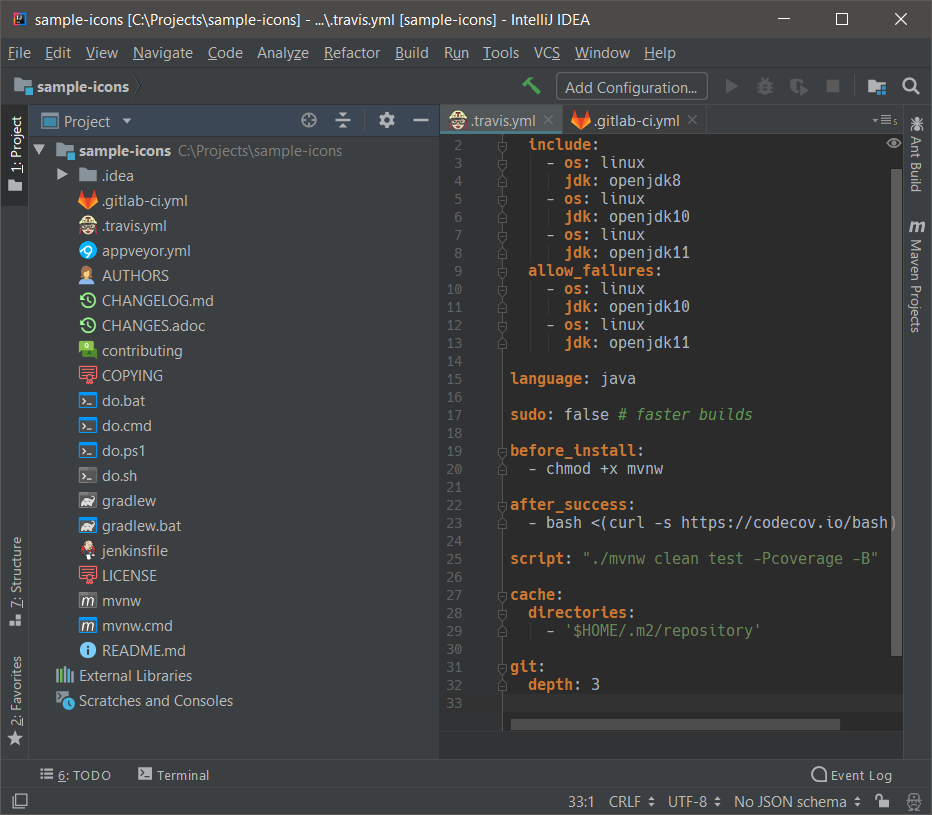
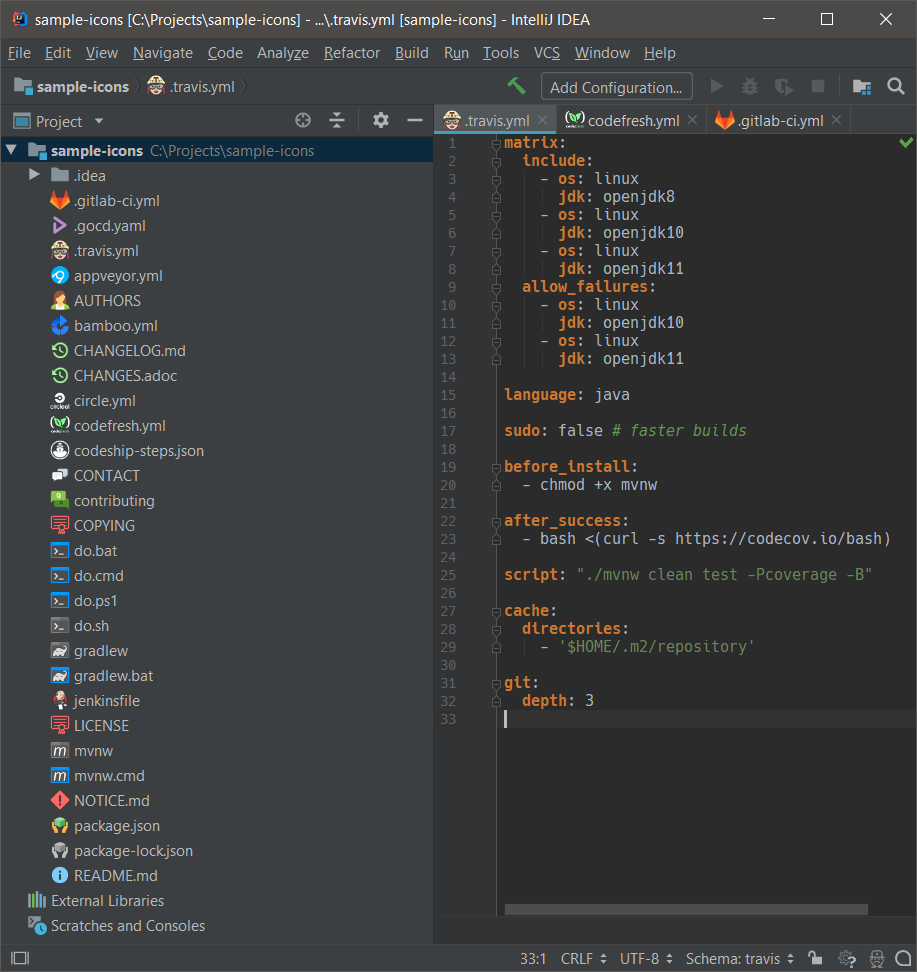
0.5 release, add bamboo.yml, circle.yml...

diff --git a/src/lermitage/intellij/extra/icons/ExtraIconProvider.java b/src/lermitage/intellij/extra/icons/ExtraIconProvider.java
@@ -7,99 +7,57 @@ import com.intellij.psi.PsiFile;
 import org.jetbrains.annotations.NotNull;
 
 import javax.swing.Icon;
+import java.util.Arrays;
+import java.util.List;
 
 public class ExtraIconProvider extends IconProvider {
     
-    private static final String TRAVIS_ICON = "/icons/travis.png";
-    private static final String APPVEYOR_ICON = "/icons/appveyor.png";
-    private static final String JENKINS_ICON = "/icons/jenkins.png";
-    private static final String GITLAB_ICON = "/icons/gitlab.png";
-    private static final String BASH_ICON = "/icons/bash.png";
-    private static final String BASH_GRADLEW_ICON = "/icons/bash-gradlew.png";
-    private static final String BASH_MVNW_ICON = "/icons/bash-mvnw.png";
-    private static final String CMD_ICON = "/icons/cmd.png";
-    private static final String CMD_GRADLEW_ICON = "/icons/cmd-gradlew.png";
-    private static final String CMD_MVNW_ICON = "/icons/cmd-mvnw.png";
-    private static final String README_ICON = "/icons/readme.png";
-    private static final String CHANGELOG_ICON = "/icons/changelog.png";
-    private static final String LICENSE_ICON = "/icons/license.png";
-    private static final String CONTRIBUTING_ICON = "/icons/contributing.png";
-    private static final String AUTHORS_ICON = "/icons/authors.png";
+    private final List<Model> models = Arrays.asList(
+            new Model("/icons/appveyor.png").willEqual("appveyor.yml"),
+            new Model("/icons/authors.png").willEqualAndMayEndWith("author", ".md", ".txt", ".adoc"),
+            new Model("/icons/authors.png").willEqualAndMayEndWith("authors", ".md", ".txt", ".adoc"),
+            new Model("/icons/bash-gradlew.png").willEqual("gradlew"),
+            new Model("/icons/bamboo.png").willEqual("bamboo.yml"),
+            new Model("/icons/bash-mvnw.png").willEqual("mvnw"),
+            new Model("/icons/changelog.png").willEqualAndMayEndWith("changelog", ".md", ".txt", ".adoc"),
+            new Model("/icons/changelog.png").willEqualAndMayEndWith("changes", ".md", ".txt", ".adoc"),
+            new Model("/icons/circleci.png").willEqual("circle.yml"),
+            new Model("/icons/codefresh.png").willEqual("codefresh.yml"),
+            new Model("/icons/codeship.png").willEqual("codeship-steps.yml"),
+            new Model("/icons/codeship.png").willEqualAndMayEndWith("codeship-steps", "json", "yml"),
+            new Model("/icons/cmd-gradlew.png").willEqual("gradlew.bat"),
+            new Model("/icons/cmd-gradlew.png").willEqual("gradlew.cmd"),
+            new Model("/icons/cmd-mvnw.png").willEqual("mvnw.bat"),
+            new Model("/icons/cmd-mvnw.png").willEqual("mvnw.cmd"),
+            new Model("/icons/contact.png").willEqualAndMayEndWith("contact", ".md", ".txt", ".adoc"),
+            new Model("/icons/contact.png").willEqualAndMayEndWith("contacts", ".md", ".txt", ".adoc"),
+            new Model("/icons/contributing.png").willEqualAndMayEndWith("contributing", ".md", ".txt", ".adoc"),
+            new Model("/icons/gitlab.png").willEqual(".gitlab-ci.yml"),
+            new Model("/icons/gocd.png").willEqualAndMayEndWith(".gocd", "yml", "yaml"),
+            new Model("/icons/jenkins.png").willEqual("jenkinsfile"),
+            new Model("/icons/jenkins.png").willEqualAndMayEndWith("jenkins", "txt", "yml"),
+            new Model("/icons/license.png").willEqualAndMayEndWith("license", ".md", ".txt", ".adoc"),
+            new Model("/icons/license.png").willEqualAndMayEndWith("copying", ".md", ".txt", ".adoc"),
+            new Model("/icons/notice.png").willEqualAndMayEndWith("notice", ".md", ".txt", ".adoc"),
+            new Model("/icons/packagejson.png").willEqual("package.json"),
+            new Model("/icons/packagejsonlock.png").willEqual("package-lock.json"),
+            new Model("/icons/readme.png").willEqualAndMayEndWith("readme", ".md", ".txt", ".adoc"),
+            new Model("/icons/travis.png").willEqual(".travis.yml"),
+        
+            new Model("/icons/bash.png").willEndWith(".sh"),
+            new Model("/icons/cmd.png").willEndWith(".cmd", ".bat", ".ps1")
+            );
     
     public Icon getIcon(@NotNull PsiElement psiElement, int flags) {
         PsiFile containingFile = psiElement.getContainingFile();
         if (containingFile != null) {
             String name = containingFile.getName().toLowerCase();
-            
-            if (name.equals(".travis.yml")) {
-                return IconLoader.getIcon(TRAVIS_ICON);
-                
-            } else if (name.equals("appveyor.yml")) {
-                return IconLoader.getIcon(APPVEYOR_ICON);
-                
-            } else if (name.equals("jenkinsfile")) {
-                return IconLoader.getIcon(JENKINS_ICON);
-                
-            } else if (name.equals(".gitlab-ci.yml")) {
-                return IconLoader.getIcon(GITLAB_ICON);
-                
-            } else if (name.equals("gradlew")) {
-                return IconLoader.getIcon(BASH_GRADLEW_ICON);
-                
-            } else if (name.equals("mvnw")) {
-                return IconLoader.getIcon(BASH_MVNW_ICON);
-                
-            } else if (name.endsWith(".sh")) {
-                return IconLoader.getIcon(BASH_ICON);
-                
-            } else if (name.equals("gradlew.cmd") || name.equals("gradlew.bat")) {
-                return IconLoader.getIcon(CMD_GRADLEW_ICON);
-                
-            } else if (name.equals("mvnw.cmd") || name.equals("mvnw.bat")) {
-                return IconLoader.getIcon(CMD_MVNW_ICON);
-                
-            } else if (endsWith(name, ".cmd", ".bat", ".ps1")) {
-                return IconLoader.getIcon(CMD_ICON);
-                
-            } else if (equalsAndEndsWith(name, "readme", ".md", ".txt", ".adoc")) {
-                return IconLoader.getIcon(README_ICON);
-                
-            } else if (equalsAndEndsWith(name, "changelog", ".md", ".txt", ".adoc") ||
-                    equalsAndEndsWith(name, "changes", ".md", ".txt", ".adoc")) {
-                return IconLoader.getIcon(CHANGELOG_ICON);
-                
-            } else if (equalsAndEndsWith(name, "license", ".md", ".txt", ".adoc") ||
-                    equalsAndEndsWith(name, "copying", ".md", ".txt", ".adoc")) {
-                return IconLoader.getIcon(LICENSE_ICON);
-                
-            } else if (equalsAndEndsWith(name, "contributing", ".md", ".txt", ".adoc")) {
-                return IconLoader.getIcon(CONTRIBUTING_ICON);
-                
-            } else if (equalsAndEndsWith(name, "authors", ".md", ".txt", ".adoc")) {
-                return IconLoader.getIcon(AUTHORS_ICON);
+            for (Model m : models) {
+                if (m.check(name)) {
+                    return IconLoader.getIcon(m.getIcon());
+                }
             }
         }
         return null;
-    }
-    
-    private boolean endsWith(String input, String... ends) {
-        for (String end : ends) {
-            if (input.endsWith(end)) {
-                return true;
-            }
-        }
-        return false;
-    }
-    
-    private boolean equalsAndEndsWith(String input, String base, String... exts) {
-        if (input.equals(base)) {
-            return true;
-        }
-        for (String ext : exts) {
-            if (input.startsWith(base) && input.endsWith(ext)) {
-                return true;
-            }
-        }
-        return false;
     }
 }

diff --git a/src/lermitage/intellij/extra/icons/Model.java b/src/lermitage/intellij/extra/icons/Model.java
@@ -1,0 +1,64 @@
+package lermitage.intellij.extra.icons;
+
+@SuppressWarnings("WeakerAccess")
+class Model {
+    
+    private boolean doEquals = false;
+    private boolean doEqualsAndMayEndWith = false;
+    private boolean doEndsWith = false;
+    
+    private String icon;
+    private String base = "";
+    private String[] extensions = new String[0];
+    
+    public Model(String icon) {
+        this.icon = icon;
+    }
+    
+    public String getIcon() {
+        return icon;
+    }
+    
+    public Model willEqual(String base) {
+        this.doEquals = true;
+        this.base = base;
+        return this;
+    }
+    
+    public Model willEqualAndMayEndWith(String base, String... extensions) {
+        this.doEqualsAndMayEndWith = true;
+        this.base = base;
+        this.extensions = extensions;
+        return this;
+    }
+    
+    public Model willEndWith(String... extensions) {
+        this.doEndsWith = true;
+        this.extensions = extensions;
+        return this;
+    }
+    
+    public boolean check(String name) {
+        if (doEquals) {
+            return name.equals(base);
+        }
+        if (doEndsWith) {
+            for (String ext : extensions) {
+                if (name.endsWith(ext)) {
+                    return true;
+                }
+            }
+        }
+        if (doEqualsAndMayEndWith) {
+            if (name.equals(base)) {
+                return true;
+            }
+            for (String ext : extensions) {
+                if (name.startsWith(base) && name.endsWith(ext)) {
+                    return true;
+                }
+            }
+        }
+        return false;
+    }
+}

diff --git a/CHANGELOG.md b/CHANGELOG.md
@@ -1,8 +1,9 @@
 ## Extra Icons Change Log
 
-### 0.5 (TODO)
+### 0.5 (2018/09/01)
 * some code refactoring.
-* support `bamboo.yml`, `circle.yml`, `codeship-steps.yml`, `codeship-steps.json`, `codefresh.yml`, `.gocd.yaml`, `package.json`, `package-lock.json`, `NOTICE`, files.
+* support `bamboo.yml`, `circle.yml`, `codeship-steps.yml`, `codeship-steps.json`, `codefresh.yml`, `.gocd.yaml`, `package.json`, `package-lock.json`, files.
+* support `jenkins`, `NOTICE`, `CONTACT` files (with `.md`, `.adoc`, `.txt` or no extension).
 
 ### 0.4 (2018/08/26)
 * enabled compatibility with all products (WebStorm, etc).
